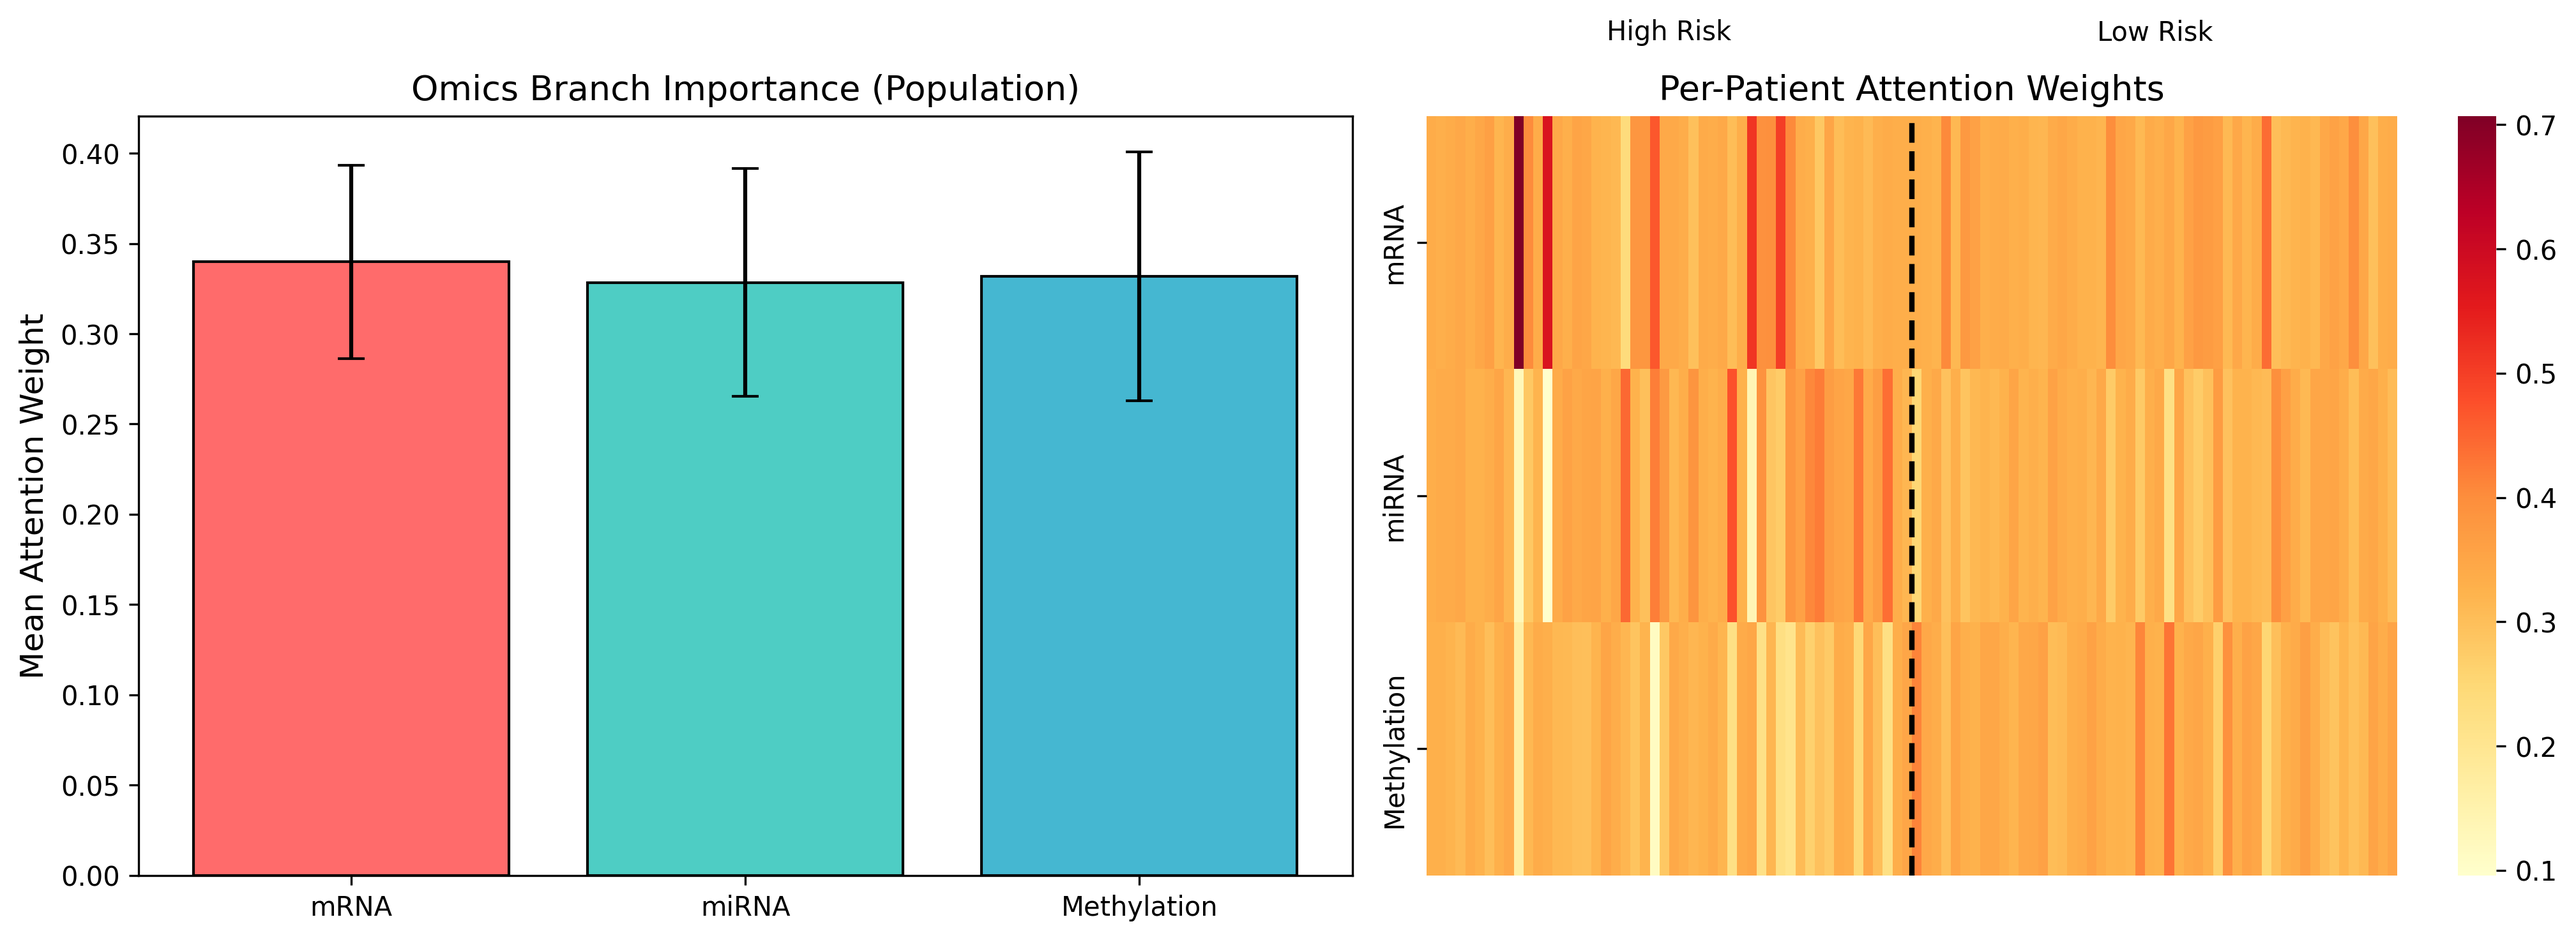
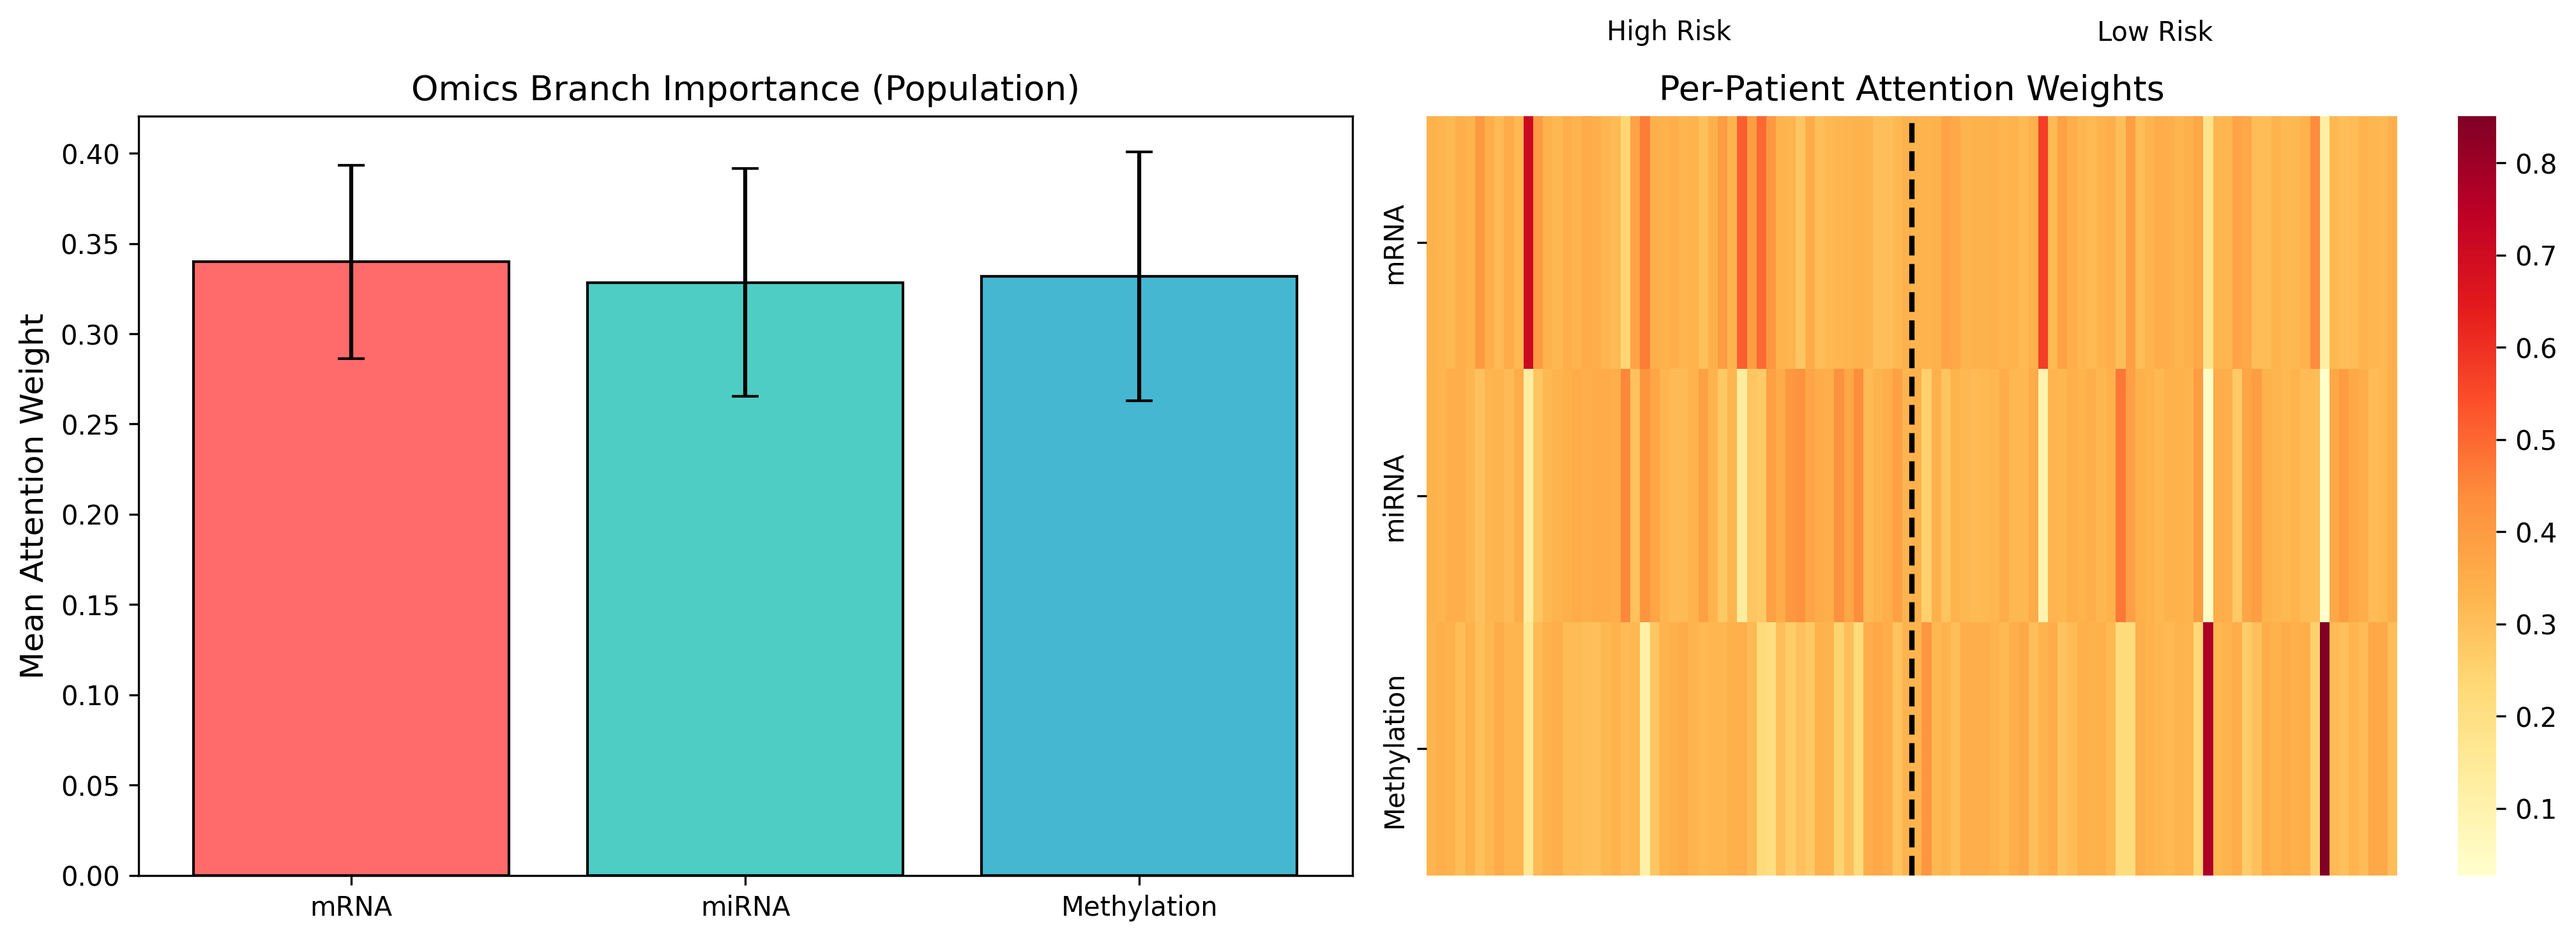
Regenerate all figures with nested CV risk scores

diff --git a/scripts/regenerate_figures.py b/scripts/regenerate_figures.py
@@ -1,0 +1,311 @@
+#!/usr/bin/env python3
+"""
+Regenerate stale figures using nested CV risk scores.
+Updates: aim2_attention_weights, aim2_feature_importance,
+         aim3_forest_plot, aim3_pathway_enrichment, aim3_subgroup_analysis, aim3_volcano_plot
+"""
+
+import os, sys
+import numpy as np
+import pandas as pd
+import torch
+from scipy import stats
+from lifelines import CoxPHFitter, KaplanMeierFitter
+from lifelines.utils import concordance_index
+from lifelines.statistics import logrank_test
+import matplotlib
+matplotlib.use('Agg')
+import matplotlib.pyplot as plt
+import seaborn as sns
+import pickle
+import warnings
+warnings.filterwarnings('ignore')
+
+DATA_DIR = "/Users/bfentaw2/system_biology/hcc_project/data/processed"
+FIG_DIR = "/Users/bfentaw2/system_biology/hcc_project/results/figures"
+
+# Load nested CV results (the corrected ones)
+with open("results/aim2/aim2_nested_cv_results.pkl", 'rb') as f:
+    nested = pickle.load(f)
+
+# Load old aim2 results for attention weights and feature importance
+# (these are from the full-data model which is still valid for interpretability)
+with open("results/aim2/aim2_results.pkl", 'rb') as f:
+    aim2 = pickle.load(f)
+
+clinical = pd.read_csv(f"{DATA_DIR}/clinical.csv", index_col=0)
+mrna = pd.read_csv(f"{DATA_DIR}/mrna_processed.csv", index_col=0)
+
+common = nested['patient_ids']
+clinical = clinical.loc[common]
+T = clinical['OS_time'].values.astype(np.float32)
+E = clinical['OS_event'].values.astype(np.float32)
+N = len(common)
+
+# Use NESTED CV risk scores for all Aim 3 figures
+risk_scores = nested['risk_scores']
+risk_labels = nested['risk_labels']
+
+print("Regenerating figures with nested CV risk scores...", flush=True)
+
+# ============================================================
+# 1. Attention weights (from full-data model — interpretability, not evaluation)
+# ============================================================
+print("  1. Attention weights...", flush=True)
+branch_importance = aim2['branch_importance']
+branch_names = ['mRNA', 'miRNA', 'Methylation']
+mean_imp = branch_importance.mean(axis=0)
+std_imp = branch_importance.std(axis=0)
+
+fig, (ax1, ax2) = plt.subplots(1, 2, figsize=(14, 5))
+ax1.bar(branch_names, mean_imp, yerr=std_imp,
+        color=['#FF6B6B', '#4ECDC4', '#45B7D1'], edgecolor='black', capsize=5)
+ax1.set_ylabel('Mean Attention Weight', fontsize=12)
+ax1.set_title('Omics Branch Importance (Population)', fontsize=13)
+
+high_idx = np.where(risk_labels == 1)[0][:50]
+low_idx = np.where(risk_labels == 0)[0][:50]
+display_idx = np.concatenate([high_idx, low_idx])
+attn_display = branch_importance[display_idx]
+
+sns.heatmap(attn_display.T, ax=ax2, cmap='YlOrRd', xticklabels=False, yticklabels=branch_names)
+ax2.set_title('Per-Patient Attention Weights', fontsize=13)
+ax2.axvline(x=len(high_idx), color='black', linewidth=2, linestyle='--')
+ax2.text(len(high_idx)//2, -0.3, 'High Risk', ha='center', fontsize=10)
+ax2.text(len(high_idx)+len(low_idx)//2, -0.3, 'Low Risk', ha='center', fontsize=10)
+plt.tight_layout()
+plt.savefig(f"{FIG_DIR}/aim2_attention_weights.png", dpi=300, bbox_inches='tight')
+plt.close()
+
+# ============================================================
+# 2. Feature importance (from full-data model)
+# ============================================================
+print("  2. Feature importance...", flush=True)
+top_mrna = aim2['top_mrna_genes'][:20]
+top_mirna = aim2['top_mirna_features'][:20]
+top_methyl = aim2['top_methyl_cpgs'][:20]
+
+fig, axes = plt.subplots(1, 3, figsize=(18, 6))
+for idx, (ax, name, feats) in enumerate(zip(axes,
+    ['mRNA (Top 20)', 'miRNA (Top 20)', 'Methylation (Top 20)'],
+    [top_mrna, top_mirna, top_methyl])):
+    names_list = [f[0][:20] for f in feats]
+    vals = [f[1] for f in feats]
+    colors_feat = ['#FF6B6B', '#4ECDC4', '#45B7D1']
+    ax.barh(range(len(names_list)), vals, color=colors_feat[idx])
+    ax.set_yticks(range(len(names_list)))
+    ax.set_yticklabels(names_list, fontsize=8)
+    ax.set_xlabel('Mean |IG|', fontsize=11)
+    ax.set_title(name, fontsize=12)
+    ax.invert_yaxis()
+plt.suptitle('Feature Importance (Integrated Gradients)', fontsize=14, y=1.02)
+plt.tight_layout()
+plt.savefig(f"{FIG_DIR}/aim2_feature_importance.png", dpi=300, bbox_inches='tight')
+plt.close()
+
+# ============================================================
+# 3. Volcano plot (DE using NESTED CV risk groups)
+# ============================================================
+print("  3. Volcano plot...", flush=True)
+high_mask = risk_labels == 1
+low_mask = risk_labels == 0
+
+de_results = []
+for gene in mrna.columns:
+    high_vals = mrna.loc[mrna.index[high_mask], gene].values
+    low_vals = mrna.loc[mrna.index[low_mask], gene].values
+    try:
+        t_stat, p_val = stats.ttest_ind(high_vals, low_vals)
+        fc = high_vals.mean() - low_vals.mean()
+        de_results.append({'gene': gene, 'log2FC': fc, 'p_value': p_val})
+    except:
+        pass
+
+de_df = pd.DataFrame(de_results)
+de_df['p_adjusted'] = np.minimum(de_df['p_value'] * len(de_df), 1.0)
+de_df = de_df.sort_values('p_value')
+
+fig, ax = plt.subplots(figsize=(8, 6))
+ax.scatter(de_df['log2FC'], -np.log10(de_df['p_value']),
+           c=np.where((de_df['p_adjusted'] < 0.05) & (de_df['log2FC'].abs() > 0.5), 'red',
+                      np.where(de_df['p_adjusted'] < 0.05, 'orange', 'gray')),
+           alpha=0.5, s=10)
+ax.axhline(y=-np.log10(0.05/len(de_df)), color='red', linestyle='--', alpha=0.5, label='Bonferroni')
+ax.axvline(x=0.5, color='gray', linestyle='--', alpha=0.3)
+ax.axvline(x=-0.5, color='gray', linestyle='--', alpha=0.3)
+ax.set_xlabel('log2 Fold Change (High vs Low Risk)', fontsize=12)
+ax.set_ylabel('-log10(p-value)', fontsize=12)
+ax.set_title('Differential Expression: High vs Low Risk (Nested CV Groups)', fontsize=13)
+for _, row in de_df.head(10).iterrows():
+    ax.annotate(row['gene'], (row['log2FC'], -np.log10(row['p_value'])), fontsize=7, alpha=0.8)
+plt.legend()
+plt.tight_layout()
+plt.savefig(f"{FIG_DIR}/aim3_volcano_plot.png", dpi=300, bbox_inches='tight')
+plt.close()
+
+# ============================================================
+# 4. Pathway enrichment (same gene sets, but using nested CV top genes)
+# ============================================================
+print("  4. Pathway enrichment...", flush=True)
+# Use top 200 from nested CV DE
+top200 = set(de_df.head(200)['gene'])
+all_measured = set(mrna.columns)
+N_total = len(all_measured)
+
+pathways = {
+    'Cell Cycle': {'CCNB1','CCND1','CDK1','CDK4','CDK2','E2F1','RB1','CDKN2A','MCM2',
+                   'BUB1','AURKA','PLK1','CDC20','MKI67','TOP2A','PCNA','CCNA2'},
+    'Wnt/Beta-catenin': {'CTNNB1','APC','AXIN1','AXIN2','WNT3A','WNT5A','GSK3B',
+                          'LEF1','TCF7','MYC','CCND1','LGR5','FZD7'},
+    'PI3K/AKT/mTOR': {'AKT1','PIK3CA','MTOR','PTEN','VEGFA','HIF1A','EGFR','ERBB2'},
+    'Angiogenesis': {'VEGFA','KDR','FLT1','ANGPT1','ANGPT2','TEK','PDGFRA','HGF','MET'},
+    'Immune Response': {'CD274','PDCD1','CTLA4','CD8A','GZMA','GZMB','IFNG','FOXP3','TGFB1'},
+    'Stemness': {'KRT19','EPCAM','CD44','SOX2','ALDH1A1','THY1','SALL4'},
+    'HCC Markers': {'BIRC5','AFP','GPC3','TERT','ARID1A','TP53','ALB','HNF4A'},
+}
+
+enrichment_results = []
+for pw_name, pw_genes in pathways.items():
+    measured = pw_genes & all_measured
+    overlap = top200 & measured
+    a = len(overlap)
+    b = len(top200 - measured)
+    c = len(measured - top200)
+    d = N_total - a - b - c
+    if a > 0:
+        odds, pv = stats.fisher_exact([[a, b], [c, d]], alternative='greater')
+    else:
+        odds, pv = 0, 1.0
+    enrichment_results.append({'pathway': pw_name, 'overlap': a, 'p_value': pv})
+
+fig, ax = plt.subplots(figsize=(10, 5))
+pw_names = [er['pathway'] for er in enrichment_results]
+pw_pvals = [-np.log10(max(er['p_value'], 1e-10)) for er in enrichment_results]
+pw_overlaps = [er['overlap'] for er in enrichment_results]
+colors_pw = ['#FF5722' if er['p_value'] < 0.05 else '#90CAF9' for er in enrichment_results]
+ax.barh(pw_names, pw_pvals, color=colors_pw, edgecolor='black', linewidth=0.5)
+ax.axvline(x=-np.log10(0.05), color='red', linestyle='--', alpha=0.7, label='p=0.05')
+ax.set_xlabel('-log10(p-value)', fontsize=12)
+ax.set_title('Pathway Enrichment of Top 200 DE Genes (Nested CV Risk Groups)', fontsize=13)
+ax.legend()
+for i, (ov, pv) in enumerate(zip(pw_overlaps, pw_pvals)):
+    ax.text(pv + 0.1, i, f'n={ov}', va='center', fontsize=9)
+plt.tight_layout()
+plt.savefig(f"{FIG_DIR}/aim3_pathway_enrichment.png", dpi=300, bbox_inches='tight')
+plt.close()
+
+# ============================================================
+# 5. Forest plot (using nested CV risk scores)
+# ============================================================
+print("  5. Forest plot...", flush=True)
+clin_cox = clinical.copy()
+clin_cox['risk_score'] = risk_scores
+
+stage_map = {'Stage I': 1, 'Stage II': 2, 'Stage III': 3, 'Stage IIIA': 3,
+             'Stage IIIB': 3, 'Stage IIIC': 3, 'Stage IV': 4, 'Stage IVA': 4, 'Stage IVB': 4}
+if 'stage' in clin_cox.columns:
+    clin_cox['stage_num'] = clin_cox['stage'].map(stage_map).fillna(2)
+if 'gender' in clin_cox.columns:
+    clin_cox['male'] = (clin_cox['gender'].str.upper() == 'MALE').astype(float)
+if 'age' in clin_cox.columns:
+    clin_cox['age_num'] = pd.to_numeric(clin_cox['age'], errors='coerce').fillna(60)
+
+clin_vars = [c for c in ['stage_num', 'male', 'age_num'] if c in clin_cox.columns]
+df_m3 = clin_cox[clin_vars + ['risk_score', 'OS_time', 'OS_event']].dropna()
+cph = CoxPHFitter(penalizer=0.01)
+cph.fit(df_m3, duration_col='OS_time', event_col='OS_event')
+
+fig, ax = plt.subplots(figsize=(8, 4))
+summary = cph.summary
+coefs = summary['exp(coef)'].values
+ci_low = summary['exp(coef) lower 95%'].values
+ci_high = summary['exp(coef) upper 95%'].values
+var_names = summary.index.tolist()
+y_pos = range(len(var_names))
+ax.errorbar(coefs, y_pos, xerr=[coefs-ci_low, ci_high-coefs],
+            fmt='o', color='black', capsize=5, markersize=8)
+ax.axvline(x=1.0, color='red', linestyle='--', alpha=0.7)
+ax.set_yticks(list(y_pos))
+ax.set_yticklabels(var_names, fontsize=11)
+ax.set_xlabel('Hazard Ratio (95% CI)', fontsize=12)
+ax.set_title('Multivariable Cox Regression (Nested CV Risk Score + Clinical)', fontsize=13)
+for i, (c, p) in enumerate(zip(coefs, summary['p'].values)):
+    sig = '*' if p < 0.05 else ''
+    ax.text(max(ci_high) * 1.05, i, f'HR={c:.2f}{sig}', va='center', fontsize=9)
+plt.tight_layout()
+plt.savefig(f"{FIG_DIR}/aim3_forest_plot.png", dpi=300, bbox_inches='tight')
+plt.close()
+
+# ============================================================
+# 6. Subgroup analysis (using nested CV risk scores)
+# ============================================================
+print("  6. Subgroup analysis...", flush=True)
+subgroup_results = []
+
+if 'stage' in clinical.columns:
+    for stage_group, label in [(['Stage I', 'Stage II'], 'Early (I-II)'),
+                                (['Stage III', 'Stage IIIA', 'Stage IIIB', 'Stage IIIC',
+                                  'Stage IV', 'Stage IVA', 'Stage IVB'], 'Late (III-IV)')]:
+        mask = clinical['stage'].isin(stage_group)
+        if mask.sum() >= 20:
+            med = np.median(risk_scores[mask])
+            high = risk_scores[mask] > med
+            try:
+                lr = logrank_test(T[mask][high], T[mask][~high], E[mask][high], E[mask][~high])
+                ci = concordance_index(T[mask], -risk_scores[mask], E[mask])
+                subgroup_results.append({'subgroup': f'Stage {label}', 'n': int(mask.sum()),
+                                        'c_index': ci, 'logrank_p': lr.p_value})
+            except:
+                pass
+
+if 'gender' in clinical.columns:
+    for gender in clinical['gender'].dropna().unique():
+        mask = clinical['gender'] == gender
+        if mask.sum() >= 20:
+            med = np.median(risk_scores[mask])
+            high = risk_scores[mask] > med
+            try:
+                lr = logrank_test(T[mask][high], T[mask][~high], E[mask][high], E[mask][~high])
+                ci = concordance_index(T[mask], -risk_scores[mask], E[mask])
+                subgroup_results.append({'subgroup': f'Gender: {gender}', 'n': int(mask.sum()),
+                                        'c_index': ci, 'logrank_p': lr.p_value})
+            except:
+                pass
+
+if 'age' in clinical.columns:
+    age_num = pd.to_numeric(clinical['age'], errors='coerce')
+    for age_group, label in [(age_num <= age_num.median(), 'Young (<median)'),
+                              (age_num > age_num.median(), 'Old (>median)')]:
+        mask = age_group.values & ~age_num.isna().values
+        if mask.sum() >= 20:
+            med = np.median(risk_scores[mask])
+            high = risk_scores[mask] > med
+            try:
+                lr = logrank_test(T[mask][high], T[mask][~high], E[mask][high], E[mask][~high])
+                ci = concordance_index(T[mask], -risk_scores[mask], E[mask])
+                subgroup_results.append({'subgroup': f'Age: {label}', 'n': int(mask.sum()),
+                                        'c_index': ci, 'logrank_p': lr.p_value})
+            except:
+                pass
+
+fig, ax = plt.subplots(figsize=(8, 5))
+sg_names = [s['subgroup'] for s in subgroup_results]
+sg_cis = [s['c_index'] for s in subgroup_results]
+sg_ns = [s['n'] for s in subgroup_results]
+colors_sg = ['#FF5722' if s['logrank_p'] < 0.05 else '#90CAF9' for s in subgroup_results]
+bars = ax.barh(sg_names, sg_cis, color=colors_sg, edgecolor='black', linewidth=0.5)
+ax.axvline(x=0.5, color='gray', linestyle='--', alpha=0.5)
+ax.set_xlabel('C-index', fontsize=12)
+ax.set_title('Subgroup-Stratified Performance (Nested CV Risk Scores)', fontsize=13)
+for bar, ci, n, s in zip(bars, sg_cis, sg_ns, subgroup_results):
+    ax.text(ci+0.005, bar.get_y()+bar.get_height()/2,
+            f'{ci:.3f} (n={n}, p={s["logrank_p"]:.3f})', va='center', fontsize=9)
+plt.tight_layout()
+plt.savefig(f"{FIG_DIR}/aim3_subgroup_analysis.png", dpi=300, bbox_inches='tight')
+plt.close()
+
+print(f"\nAll 6 figures regenerated with nested CV risk scores.")
+print("Subgroup results (nested CV):")
+for s in subgroup_results:
+    print(f"  {s['subgroup']}: C={s['c_index']:.4f}, p={s['logrank_p']:.4f}, n={s['n']}")
+print("\nDone!")
